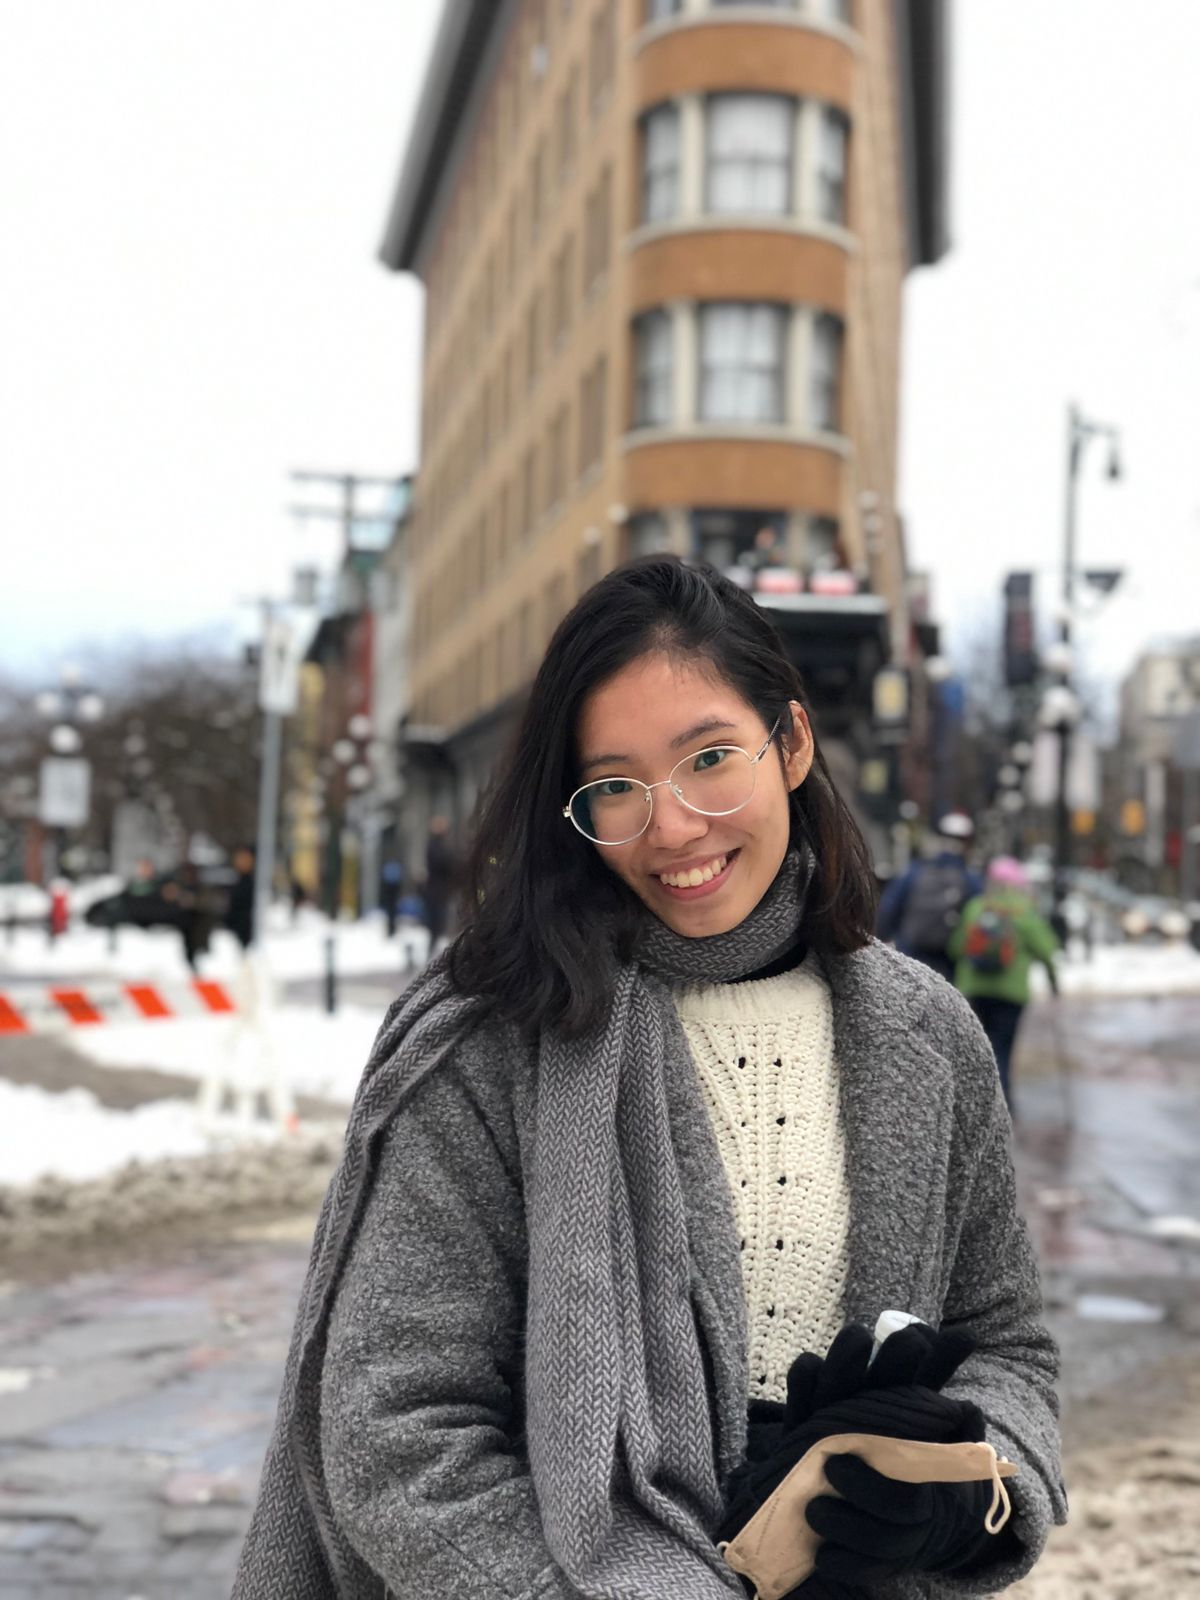
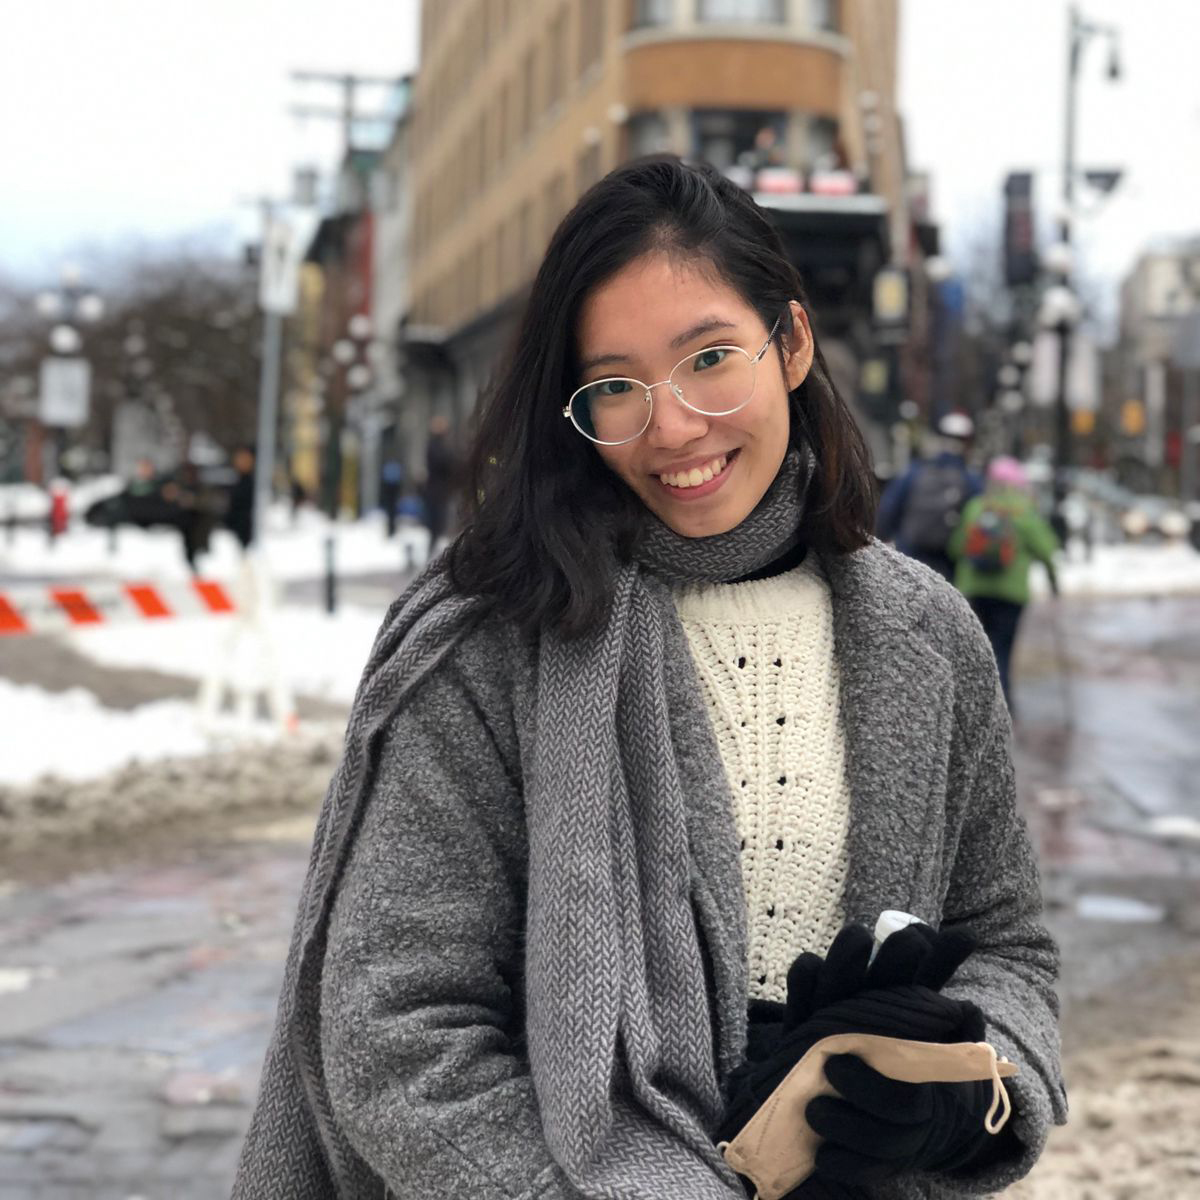
revisi speaker image and footer

diff --git a/index.html b/index.html
@@ -112,7 +112,7 @@
 			</div>
 		</div>
 
-		<a href="https://bit.ly/TACESWEBINAR22" target="_blank"><button class="btn-header btn-header-cyan ms-64 mt-64">Get in Touch <i class="bi bi-arrow-right-square-fill"></i></button></a>
+		<a href="https://bit.ly/TACESWEBINAR22" target="_blank"><button class="btn-header btn-header-cyan ms-64 mt-64">Register Here <i class="bi bi-arrow-right-square-fill"></i></button></a>
 	</div>
 
 	<!-- Competition Section -->
@@ -561,8 +561,8 @@
 				</div>
 				<div class="col-md-3">
 					<h5 class="fw-bold">Competition Registration</h5>
-					<p class="sosmed-text"><span><img class="footer-icon" src="assets/images/icon/icon sosmed/whatsapp_icon.svg" alt="whatsapp-icon"></span> 0895611889218 <br>
-						<span><img class="footer-icon" src="assets/images/icon/icon sosmed/LINE_logo.svg.png" alt="line-icon"></span> rachelsyallom </p>
+					<p class="sosmed-text"><span><img class="footer-icon" src="assets/images/icon/icon sosmed/whatsapp_icon.svg" alt="whatsapp-icon"></span> 082136035101 <br>
+						<span><img class="footer-icon" src="assets/images/icon/icon sosmed/LINE_logo.svg.png" alt="line-icon"></span> mavianz7101 </p>
 				</div>
 				<div class="col-md-3">
 					<h5 class="fw-bold">Webinar Registration</h5>
